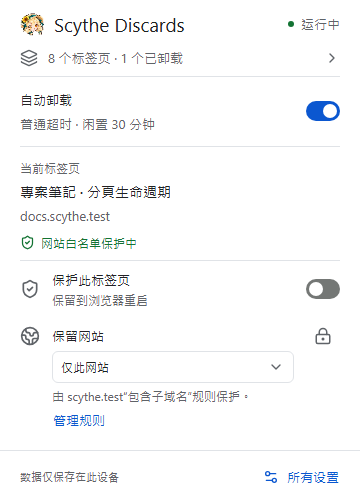
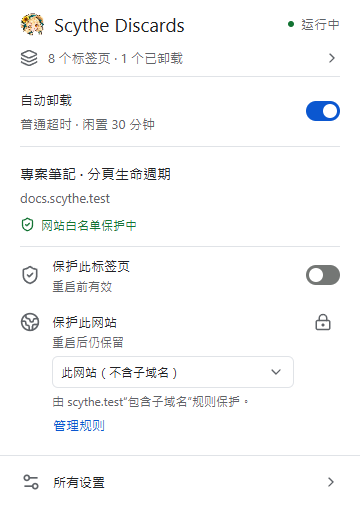
release: simplify popup and prepare v0.3.4

diff --git a/src/ui/popup.tsx b/src/ui/popup.tsx
@@ -25,6 +25,9 @@ function Popup() {
   const root = hostname ? rootDomainOf(hostname) : null;
   const allowed = !!data && matchesAllowlist(hostname, data.settings.allowlist);
   const protection = hostname ? protectionFor(hostname, scope, data?.settings.allowlist ?? []) : null;
+  const showScopeTarget = !!hostname && scope === 'domain' && !protection?.inherited;
+  const websiteDescription = 'popup-website-help' +
+    (protection?.inherited ? ' inherited-help' : showScopeTarget ? ' popup-scope-target' : '');
   const manuallyProtected = current?.manualProtected ?? false;
   const reason = state.connectionError ? t('currentStale') : !hostname ? t('currentUnsupported') : allowed ? t('currentAllowlisted') :
     manuallyProtected ? t('currentManual') : current?.reason === 'active' ? t('currentActive') : current ? reasonText(current.reason) : '';
@@ -54,9 +57,8 @@ function Popup() {
         <Switch id="popup-automation" checked={!!data && !data.settings.paused} disabled={!canAct}
           onCheckedChange={enabled => void act({ type: 'pause', paused: !enabled }, t(enabled ? 'noticeResumed' : 'noticePaused'))} />
       </div>
-      <section className="popup-current" aria-labelledby="current-heading">
-        <h2 id="current-heading" className="popup-section-heading">{t('currentTab')}</h2>
-        <p className="popup-title" id="popup-title" title={current?.title}>{current?.title || (!data ? t('loadingTabs') : t('currentUnavailable'))}</p>
+      <section className="popup-current" aria-label={t('currentTab')}>
+        <h2 className="popup-title" id="popup-title" title={current?.title}>{current?.title || (!data ? t('loadingTabs') : t('currentUnavailable'))}</h2>
         {data && <Hostname key={hostname} id="popup-host" value={hostname || 'Chrome'} />}
         {data && <p className={'current-reason' + (!state.connectionError && (allowed || manuallyProtected) ? ' is-protected' : '')}>
           {state.connectionError ? <Info size={15} aria-hidden="true" /> : <ShieldCheck size={15} aria-hidden="true" />}
@@ -66,8 +68,8 @@ function Popup() {
         <div className="popup-action-row">
           <ShieldCheck size={20} className="muted-icon" aria-hidden="true" />
           <div className="setting-copy"><label htmlFor="popup-protect" className="setting-title">{t('protectThisTab')}</label>
-            <p className="description">{t('untilRestart')}</p></div>
-          <Switch id="popup-protect" checked={manuallyProtected} disabled={!canAct || !hostname}
+            <p id="popup-protect-help" className="description">{t('untilRestart')}</p></div>
+          <Switch id="popup-protect" checked={manuallyProtected} disabled={!canAct || !hostname} aria-describedby="popup-protect-help"
             onCheckedChange={enabled => {
               if (current) void act({ type: 'protect', tabId: current.id, protected: enabled }, t(enabled ? 'noticeProtected' : 'noticeUnprotected'));
             }} />
@@ -77,15 +79,15 @@ function Popup() {
           <div className="setting-copy">
             {protection?.inherited ? <div id="popup-website-title" className="setting-title">{t('keepWebsite')}</div> :
               <label id="popup-website-title" htmlFor="popup-allow" className="setting-title">{t('keepWebsite')}</label>}
+            <p id="popup-website-help" className="description">{t('websiteProtectionHelp')}</p>
             <Select id="popup-scope" className="popup-scope" value={scope} disabled={!canAct || !hostname}
-              aria-label={t('protectionScope')} aria-describedby={hostname ? protection?.inherited ? 'inherited-help' : 'popup-scope-target' : undefined}
+              aria-label={t('protectionScope')} aria-describedby={websiteDescription}
               onChange={event => setScope(event.target.value as AllowScope)}>
               <option value="host">{t('scopeHostLabel')}</option>
               {root && <option value="domain">{t('scopeDomainLabel')}</option>}
             </Select>
-            {hostname && !protection?.inherited && <div className="scope-target" id="popup-scope-target">
-              {scope === 'host' ? <p className="description">{t('scopeHostHint')}</p> :
-                <Hostname value={protection?.target?.hostname ?? hostname} describe={value => t('scopeTargetDomain', [value])} />}
+            {showScopeTarget && <div className="scope-target" id="popup-scope-target">
+              <Hostname value={protection?.target?.hostname ?? hostname} describe={value => t('scopeTargetDomain', [value])} />
             </div>}
             {protection?.inherited && <div className="inherited-notice" id="inherited-help">
               <Hostname key={protection.inherited.id} value={protection.inherited.hostname}
@@ -96,7 +98,7 @@ function Popup() {
           {protection?.inherited ? <LockKeyhole size={18} className="inherited-lock" aria-hidden="true" /> :
             <Switch id="popup-allow" aria-label={hostname ? t('keepWebsiteTarget', [protection?.target?.hostname ?? hostname]) : t('keepWebsite')}
             checked={protection?.checked ?? false}
-            aria-describedby={hostname ? 'popup-scope-target' : undefined}
+            aria-describedby={websiteDescription}
             disabled={!canAct || !protection?.target}
             onCheckedChange={enabled => {
               if (!protection?.target) return;
@@ -108,8 +110,10 @@ function Popup() {
       {!hostname && data && <p className="popup-unsupported">{t('unsupportedActions')}</p>}
     </main>
     <Toast state={state} />
-    <footer className="popup-footer"><span className="description">{t('localOnly')}</span>
-      <Button variant="text" id="open-options" onClick={() => open()}><Settings2 size={16} aria-hidden="true" />{t('allSettings')}</Button>
+    <footer className="popup-footer">
+      <Button variant="text" id="open-options" onClick={() => open()}>
+        <Settings2 size={20} aria-hidden="true" /><span>{t('allSettings')}</span><ChevronRight size={16} aria-hidden="true" />
+      </Button>
     </footer>
   </>;
 }

diff --git a/src/ui/styles.css b/src/ui/styles.css
@@ -271,6 +271,7 @@ input { caret-color: var(--primary); }
 .popup-header { display: flex; align-items: center; justify-content: space-between; padding: 12px 20px 8px; flex-shrink: 0; }
 .popup-header .brand { gap: 10px; }
 .popup-header h1 { font-size: 19px; font-weight: 400; line-height: 24px; }
+.popup-body .setting-title { font-weight: 500; }
 .popup-feedback { flex-shrink: 0; padding: 0 20px 12px; }
 .popup-feedback:empty { padding: 0; }
 .popup-feedback > :not(:first-child) { margin-top: 8px; }
@@ -283,8 +284,7 @@ input { caret-color: var(--primary); }
 .popup-summary:hover { color: var(--primary); }
 .popup-automation { display: flex; align-items: center; gap: 16px; padding: 12px 0; border-top: 1px solid var(--line); border-bottom: 1px solid var(--line); }
 .popup-automation .description { margin-top: 3px; }
-.popup-current { padding: 12px 0 8px; }
-.popup-section-heading { font-size: 12px; color: var(--muted); font-weight: 400; margin-bottom: 4px; }
+.popup-current { padding: 16px 0 12px; }
 .popup-title { font-size: 14px; font-weight: 500; line-height: 22px; overflow-wrap: anywhere; display: -webkit-box; -webkit-line-clamp: 2; -webkit-box-orient: vertical; overflow: hidden; }
 .hostname { overflow-wrap: anywhere; }
 .popup-current > .hostname { margin-top: 3px; }
@@ -312,9 +312,10 @@ input { caret-color: var(--primary); }
 .inherited-notice { margin-top: 4px; font-size: 12px; line-height: 18px; color: var(--muted); }
 .inherited-notice .button { min-height: 28px; padding: 3px 0; }
 .popup-unsupported { color: var(--muted); font-size: 12px; line-height: 18px; margin-bottom: 4px; }
-.popup-footer { flex-shrink: 0; display: flex; align-items: center; justify-content: space-between; gap: 8px; padding: 8px 12px 8px 20px; border-top: 1px solid var(--line); }
-.popup-footer > .description { min-width: 0; font-size: 11px; line-height: 16px; }
-.popup-footer .button { padding-inline: 8px; }
+.popup-footer { flex-shrink: 0; padding: 8px 12px; border-top: 1px solid var(--line); }
+.popup-footer .button { width: 100%; justify-content: flex-start; gap: 12px; padding-inline: 8px; border-radius: var(--radius-control); color: var(--ink); font-weight: 400; }
+.popup-footer .button > svg { color: var(--muted); }
+.popup-footer .button > svg:last-child { margin-left: auto; }
 .popup-body .toast-region { position: static; flex-shrink: 0; width: auto; max-width: none; padding: 0 12px 12px; transform: none; }
 .popup-body .toast-region:empty { padding: 0; }
 .popup-body .toast { font-size: 12px; padding-left: 12px; }

diff --git a/tests/browser/ui-flows.js b/tests/browser/ui-flows.js
@@ -4,12 +4,13 @@ async page => {
   const context = page.context();
   const base = page.url().split('#')[0];
   const extensionId = base.split('/')[2];
+  const version = await page.evaluate(() => chrome.runtime.getManifest().version);
   const keys = ['languageTag','navSettings','navAllowlist','navTabs','navActivity','settings','allowlist','tabs','activity','saved','cancelChanges','addWebsite','add','cancel','removeWebsite','errorInvalidHost','noticeChecked','scopeHost','scopeDomain','inheritedProtection','manageRule','noActivity','undo'];
   const messages = await page.evaluate(keys => Object.fromEntries(keys.map(key => [key, chrome.i18n.getMessage(key, ['$1','$2','$3'])])), keys);
   const t = (key, args = []) => messages[key].replace(/\$(\d)/g, (_m, position) => String(args[Number(position) - 1] ?? ''));
   const language = messages.languageTag.replaceAll('-', '_');
   const isTW = language === 'zh_TW';
-  const review = 'artifacts/screenshots/v033-' + language + '-';
+  const review = 'artifacts/screenshots/v' + version + '-' + language + '-';
   page.on('pageerror', error => errors.push(error.message));
   page.on('console', message => { if (message.type() === 'error') consoleErrors.push(message.text()); });
   const record = name => { passed.push(name); console.log('UI PASS ' + name); };

diff --git a/docs/VALIDATION.md b/docs/VALIDATION.md
@@ -1,25 +1,23 @@
 # Validation
 
-## v0.3.3 release baseline
+## v0.3.4
 
-The source repository is public. Ordinary Releases are automatically published after validation of the requested version tag; see the [Releases page](https://github.com/Lianye-Scythe/scythe-discards/releases) for available downloads. This summary describes the tested release baseline at commit `8f74ddc`, not a promise of broad browser or workload coverage.
+GitHub publication is gated by validation of the version tag. The [release workflow](https://github.com/Lianye-Scythe/scythe-discards/actions/workflows/release.yml) runs the same Windows/Linux matrix as [main-branch CI](https://github.com/Lianye-Scythe/scythe-discards/actions/workflows/ci.yml), then builds and publishes the tagged source. See the [release](https://github.com/Lianye-Scythe/scythe-discards/releases/tag/v0.3.4) for downloads and the source commit.
 
-| Check | Recorded result |
+| Check | Scope |
 | --- | --- |
-| Type checking and core/i18n tests | Passed; 32 tests |
-| Linux Chrome for Testing | English, Traditional Chinese and Simplified Chinese each passed 8 API/lifecycle cases + 16 UI groups |
-| Windows Chrome for Testing | The same three-language matrix passed |
-| Installed Windows Chrome | Traditional Chinese passed the same 8 + 16 groups |
-| Release workflow | Both OS jobs and the initial draft creation passed; subsequent automated publication also passed |
-| Release ZIP | 19 files; SHA256SUMS verified; runtime matches both CI builds |
+| Local type checking and core/i18n tests | Passed; 32 tests |
+| Installed Windows Chrome 156.0.8078.48 | English, Traditional Chinese and Simplified Chinese each passed 8 API/lifecycle cases + 16 UI groups |
+| Release CI gate | The tagged commit must pass type checking, 32 tests and the same three-language browser suite on both Windows and Linux |
+| Popup inspection | Light/dark themes, 320px English scope selection, full-width settings navigation, keyboard focus and associated protection descriptions |
+| Release ZIP | 19 runtime/legal files; manifest version and SHA256SUMS verified locally; CI verifies its own package checksum before publication |
 
-Evidence: [main-branch CI](https://github.com/Lianye-Scythe/scythe-discards/actions/runs/40349873313) and [tag/release CI](https://github.com/Lianye-Scythe/scythe-discards/actions/runs/40350912938). Testing used isolated profiles. The CI browser was Chrome for Testing 156.0.8078.47; the separately installed Windows browser was 156.0.8078.48. Windows copies of text/HTML files differ only in line endings from the Linux release package.
+Screenshots use isolated Windows test profiles and fixture websites. The [image index](images/README.md) records their source; each README uses matching interface-language captures. Browser-test filenames use the extension's actual manifest version.
 
-These results cover the fixtures and interaction paths exercised. Real sleep/wake, long-term use, hundreds of real tabs, memory benefit, macOS and complete WCAG conformance remain outside the demonstrated scope. Reports are generated under the Git-ignored `artifacts/` directory, with current screenshots in `artifacts/screenshots/`, and retained as GitHub Actions artifacts according to the workflow policy.
+Tests exercise real discard/reload behavior, normal/strict protections, alarms and worker recovery, website scope and inherited protection, Undo, form/navigation state, theme changes, keyboard paths, long hostnames, connection/action failures and bounded activity pagination. The popup retains explicit domain targets and rule sources while reducing always-visible supporting text.
 
-## Checks after publication
+These results cover the fixtures and interaction paths exercised. Real sleep/wake, long-term use, hundreds of real tabs, memory benefit, macOS and complete WCAG conformance remain outside the demonstrated scope. The extension does not promise a fixed RAM ceiling or second-exact scheduling.
 
-- [Automated publication](https://github.com/Lianye-Scythe/scythe-discards/actions/runs/40419235002) validated the existing v0.3.3 tag and completed the public release with ZIP and checksum assets.
-- [Windows/Linux three-language CI](https://github.com/Lianye-Scythe/scythe-discards/actions/runs/40423142819) passed after activity-fixture setup was isolated from background writes. The fixture is checked before testing 50/50/25 pagination; production behavior was unchanged.
+Reports are generated under the Git-ignored `artifacts/` directory, with screenshots in `artifacts/screenshots/`, and retained as GitHub Actions artifacts according to the workflow policy. See the [test guide](../tests/README.md) for commands and fixture details.
 
-See the [changelog](../CHANGELOG.md) and release tags for earlier versions. The source tree keeps the current validation summary; earlier working records remain in Git history.
+Earlier validation summaries remain in Git history. The [changelog](../CHANGELOG.md) and release tags record previous versions.

diff --git a/docs/RELEASE_NOTES.md b/docs/RELEASE_NOTES.md
@@ -1,19 +1,18 @@
-# Scythe Discards v0.3.3
+# Scythe Discards v0.3.4
 
 Scythe Discards is a local Chrome extension that unloads inactive background pages on a timer while keeping their tabs and URLs.
 
-## Features
+## What's changed
 
-- Normal and strict timeout modes, with active-tab, website and manual protections.
-- Exact-hostname or domain-and-subdomains rules, clear rule sources, quick removal and Undo.
-- Compact Chrome-style settings and popup, keyboard-operable long-host disclosures, and system/manual light-dark themes.
-- English, Traditional Chinese and Simplified Chinese following Chrome's UI language.
-- Recent activity capped at 200 session events, displayed 50 per page, with a clear action.
-- Local data handling, no telemetry or remote backend, and MIT licensing.
+- A clearer popup with the current page title as its heading, shorter supporting text and more distinct primary controls.
+- Consistent Protect this tab / Protect this website labels in English, Traditional Chinese and Simplified Chinese, with visible explanations of when protection ends.
+- A scope selector that states when subdomains are excluded, while retaining explicit domain targets, inherited rule sources and management actions.
+- A full-width All settings row, keyboard navigation and control descriptions for assistive technology.
+- Updated README screenshots in all three languages.
 
 ## Install
 
-Download **scythe-discards-0.3.3.zip**, extract it to a permanent folder, then enable Developer mode at `chrome://extensions` and choose **Load unpacked**. Select the extracted folder containing `manifest.json`. **SHA256SUMS** is provided beside the ZIP. GitHub's automatic Source code archives require a build first.
+Download **scythe-discards-0.3.4.zip**, extract it to a permanent folder, then enable Developer mode at `chrome://extensions` and choose **Load unpacked**. Select the extracted folder containing `manifest.json`. **SHA256SUMS** is provided beside the ZIP. GitHub's automatic Source code archives require a build first.
 
 ## Updating an unpacked installation
 
@@ -23,6 +22,6 @@ Reloading/updating starts a new session: inactivity timers, per-tab manual prote
 
 ## Validation scope
 
-The local build passed type checking, 32 core/i18n tests, and 8 API/lifecycle cases plus 16 UI groups for each of three languages on Linux, and Traditional Chinese in installed Windows Chrome. See [recorded validation](https://github.com/Lianye-Scythe/scythe-discards/blob/main/docs/VALIDATION.md) for details and scope.
+Publication is gated by type checking, 32 core/i18n tests, 8 API/lifecycle cases and 16 UI groups per language on both Windows and Linux. Local installed Windows Chrome also passed all three languages. See [validation and scope](https://github.com/Lianye-Scythe/scythe-discards/blob/v0.3.4/docs/VALIDATION.md) and the [release workflow runs](https://github.com/Lianye-Scythe/scythe-discards/actions/workflows/release.yml) for the tagged build.
 
 Tests use isolated profiles. Returning to a discarded tab reloads it and unsaved page state may be lost. Sleep/wake, long-term operation, real browsing workloads and actual memory benefit remain separate usage tests; the extension does not promise a fixed memory ceiling or second-exact execution.

diff --git a/docs/images/README.md b/docs/images/README.md
@@ -8,12 +8,12 @@ The icon source is [public/icon.png](../../public/icon.png); its [generation rec
 
 ## Preview screenshots
 
-These are unedited screenshots of Scythe Discards v0.3.3 using isolated Windows test profiles and example websites. Webpage titles retain their original language.
+These are unedited screenshots of Scythe Discards v0.3.4 using isolated Windows test profiles and example websites. Webpage titles retain their original language.
 
 | Interface language | Files | Capture source |
 | --- | --- | --- |
-| English | `popup.png`, `popup-inherited.png`, `settings.png` | Windows Chrome for Testing 156.0.8078.47, [GitHub CI](https://github.com/Lianye-Scythe/scythe-discards/actions/runs/40349873313) |
-| Traditional Chinese | Corresponding `*-zh-TW.png` files | Installed Windows Chrome 156.0.8078.48, local validation |
-| Simplified Chinese | Corresponding `*-zh-CN.png` files | Windows Chrome for Testing 156.0.8078.47, the same GitHub CI run |
+| English | `popup.png`, `popup-inherited.png`, `settings.png` | Installed Windows Chrome 156.0.8078.48, local validation |
+| Traditional Chinese | Corresponding `*-zh-TW.png` files | The same browser and fixtures, with Traditional Chinese UI |
+| Simplified Chinese | Corresponding `*-zh-CN.png` files | The same browser and fixtures, with Simplified Chinese UI |
 
 The originals come from the validation recorded in [VALIDATION.md](../VALIDATION.md). The capture runner and UI fixtures are now maintained in `tests/browser/run.mjs` and `tests/browser/ui-flows.js`; see the [test guide](../../tests/README.md). Each language README uses matching interface captures. Regenerate with the same fixtures when the interface changes; keep screenshots free of everyday browsing data.

diff --git a/CHANGELOG.md b/CHANGELOG.md
@@ -1,5 +1,14 @@
 # Changelog
 
+## 0.3.4 — 2026-10-27
+
+- Make the current page title the popup heading, shorten supporting text and distinguish primary controls from their descriptions.
+- Clarify tab protection until Chrome restarts and website rules that remain saved after restarting, in all three interface languages.
+- Include the no-subdomains explanation in the website scope selector while retaining explicit domain targets and inherited rule sources.
+- Make All settings a full-width navigation row; keep the local-storage notice in the settings page.
+- Associate protection lifetime and scope explanations with the controls for assistive technology.
+- Refresh the three-language README screenshots and name browser-test captures using the installed extension version.
+
 ## 0.3.3 — 2026-10-26
 
 - Present inherited website protection with its rule source, a lock indicator and management action; keep scope selection available for explicit parent-rule changes.
